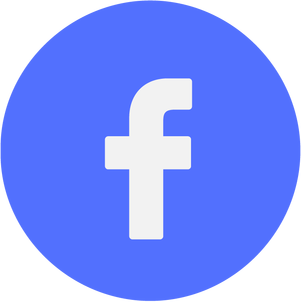
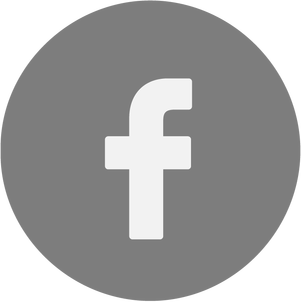
downbar changed

diff --git a/return.html b/return.html
@@ -189,7 +189,6 @@
     <div class="flex_grower"></div>
 </div>
 
-
 <div class="down_bar">
 
     <div class="flex_grower" style="width: 20%;font-size: 10px;text-align: right;direction: rtl;">
@@ -203,14 +202,17 @@
         <div class="social_icons">
             <div class="flex_grower">
             </div>
-            <div>
-                <img src="./pics/fb.png" alt="facebook" width="40" height="40"/>
+            <div class = "social_single_icon">
+                <img src="./pics/fb.png" alt="facebook" width="40" height="40"class="social_image_front"/>
+                <img src="./pics/fb_hover.png" alt="facebook" width="40" height="40"class="social_image_back"/>
             </div>
-            <div>
-                <img src="./pics/insta.png" alt="instagram" width="40" height="40"/>
+            <div class = "social_single_icon">
+                <img src="./pics/insta.png" alt="instagram" width="40" height="40"class="social_image_front"/>
+                <img src="./pics/insta_hover.png" alt="facebook" width="40" height="40" class="social_image_back"/>
             </div>
-            <div>
-                <img src="./pics/twit.png" alt="twitter" width="40" height="40"/>
+            <div class = "social_single_icon">
+                <img src="./pics/twit.png" alt="twitter" width="40" height="40"class="social_image_front"/>
+                <img src="./pics/twit_hover.png" alt="facebook" width="40" height="40" class="social_image_back"/>
             </div>
             <div class="flex_grower">
             </div>
@@ -218,14 +220,17 @@
         <div class="social_icons">
             <div class="flex_grower">
             </div>
-            <div>
-                <img src="./pics/fb.png" alt="facebook" width="40" height="40"/>
+            <div class = "social_single_icon">
+                <img src="./pics/fb.png" alt="facebook" width="40" height="40"class="social_image_front"/>
+                <img src="./pics/fb_hover.png" alt="facebook" width="40" height="40"class="social_image_back"/>
             </div>
-            <div>
-                <img src="./pics/insta.png" alt="instagram" width="40" height="40"/>
+            <div class = "social_single_icon">
+                <img src="./pics/insta.png" alt="instagram" width="40" height="40"class="social_image_front"/>
+                <img src="./pics/insta_hover.png" alt="facebook" width="40" height="40" class="social_image_back"/>
             </div>
-            <div>
-                <img src="./pics/twit.png" alt="twitter" width="40" height="40"/>
+            <div class = "social_single_icon">
+                <img src="./pics/twit.png" alt="twitter" width="40" height="40"class="social_image_front"/>
+                <img src="./pics/twit_hover.png" alt="facebook" width="40" height="40" class="social_image_back"/>
             </div>
             <div class="flex_grower">
             </div>

diff --git a/about.html b/about.html
@@ -212,14 +212,17 @@
         <div class="social_icons">
             <div class="flex_grower">
             </div>
-            <div>
-                <img src="./pics/fb.png" alt="facebook" width="40" height="40"/>
+            <div class = "social_single_icon">
+                <img src="./pics/fb.png" alt="facebook" width="40" height="40"class="social_image_front"/>
+                <img src="./pics/fb_hover.png" alt="facebook" width="40" height="40"class="social_image_back"/>
             </div>
-            <div>
-                <img src="./pics/insta.png" alt="instagram" width="40" height="40"/>
+            <div class = "social_single_icon">
+                <img src="./pics/insta.png" alt="instagram" width="40" height="40"class="social_image_front"/>
+                <img src="./pics/insta_hover.png" alt="facebook" width="40" height="40" class="social_image_back"/>
             </div>
-            <div>
-                <img src="./pics/twit.png" alt="twitter" width="40" height="40"/>
+            <div class = "social_single_icon">
+                <img src="./pics/twit.png" alt="twitter" width="40" height="40"class="social_image_front"/>
+                <img src="./pics/twit_hover.png" alt="facebook" width="40" height="40" class="social_image_back"/>
             </div>
             <div class="flex_grower">
             </div>
@@ -227,14 +230,17 @@
         <div class="social_icons">
             <div class="flex_grower">
             </div>
-            <div>
-                <img src="./pics/fb.png" alt="facebook" width="40" height="40"/>
+            <div class = "social_single_icon">
+                <img src="./pics/fb.png" alt="facebook" width="40" height="40"class="social_image_front"/>
+                <img src="./pics/fb_hover.png" alt="facebook" width="40" height="40"class="social_image_back"/>
             </div>
-            <div>
-                <img src="./pics/insta.png" alt="instagram" width="40" height="40"/>
+            <div class = "social_single_icon">
+                <img src="./pics/insta.png" alt="instagram" width="40" height="40"class="social_image_front"/>
+                <img src="./pics/insta_hover.png" alt="facebook" width="40" height="40" class="social_image_back"/>
             </div>
-            <div>
-                <img src="./pics/twit.png" alt="twitter" width="40" height="40"/>
+            <div class = "social_single_icon">
+                <img src="./pics/twit.png" alt="twitter" width="40" height="40"class="social_image_front"/>
+                <img src="./pics/twit_hover.png" alt="facebook" width="40" height="40" class="social_image_back"/>
             </div>
             <div class="flex_grower">
             </div>

diff --git a/contact.html b/contact.html
@@ -227,14 +227,17 @@
         <div class="social_icons">
             <div class="flex_grower">
             </div>
-            <div>
-                <img src="./pics/fb.png" alt="facebook" width="40" height="40"/>
+            <div class = "social_single_icon">
+                <img src="./pics/fb.png" alt="facebook" width="40" height="40"class="social_image_front"/>
+                <img src="./pics/fb_hover.png" alt="facebook" width="40" height="40"class="social_image_back"/>
             </div>
-            <div>
-                <img src="./pics/insta.png" alt="instagram" width="40" height="40"/>
+            <div class = "social_single_icon">
+                <img src="./pics/insta.png" alt="instagram" width="40" height="40"class="social_image_front"/>
+                <img src="./pics/insta_hover.png" alt="facebook" width="40" height="40" class="social_image_back"/>
             </div>
-            <div>
-                <img src="./pics/twit.png" alt="twitter" width="40" height="40"/>
+            <div class = "social_single_icon">
+                <img src="./pics/twit.png" alt="twitter" width="40" height="40"class="social_image_front"/>
+                <img src="./pics/twit_hover.png" alt="facebook" width="40" height="40" class="social_image_back"/>
             </div>
             <div class="flex_grower">
             </div>
@@ -242,14 +245,17 @@
         <div class="social_icons">
             <div class="flex_grower">
             </div>
-            <div>
-                <img src="./pics/fb.png" alt="facebook" width="40" height="40"/>
+            <div class = "social_single_icon">
+                <img src="./pics/fb.png" alt="facebook" width="40" height="40"class="social_image_front"/>
+                <img src="./pics/fb_hover.png" alt="facebook" width="40" height="40"class="social_image_back"/>
             </div>
-            <div>
-                <img src="./pics/insta.png" alt="instagram" width="40" height="40"/>
+            <div class = "social_single_icon">
+                <img src="./pics/insta.png" alt="instagram" width="40" height="40"class="social_image_front"/>
+                <img src="./pics/insta_hover.png" alt="facebook" width="40" height="40" class="social_image_back"/>
             </div>
-            <div>
-                <img src="./pics/twit.png" alt="twitter" width="40" height="40"/>
+            <div class = "social_single_icon">
+                <img src="./pics/twit.png" alt="twitter" width="40" height="40"class="social_image_front"/>
+                <img src="./pics/twit_hover.png" alt="facebook" width="40" height="40" class="social_image_back"/>
             </div>
             <div class="flex_grower">
             </div>

diff --git a/style/down_bar.css b/style/down_bar.css
@@ -46,3 +46,32 @@
     height: auto;
     vertical-align: middle;
 }
+.social_single_icon > img{
+    width: 60%;
+    height: auto;
+}
+.social_single_icon{
+    border-radius: 3px;
+    margin-top: 3.5%;
+    height: 100%;
+    width: 100%;
+    text-align: center;
+    font-size: 10px;
+    text-rendering: auto;
+    -webkit-transition: background-color 0.4s ease;
+    transition: background-color 0.4s ease;
+}
+
+.social_single_icon:hover .social_image_front{
+    display: none;
+}
+.social_single_icon:hover .social_image_back{
+    display: inline;
+}
+.social_image_back{
+    display: none;
+    position: relative;
+    top: 0;
+    left: 0;
+    z-index: 99;
+}
